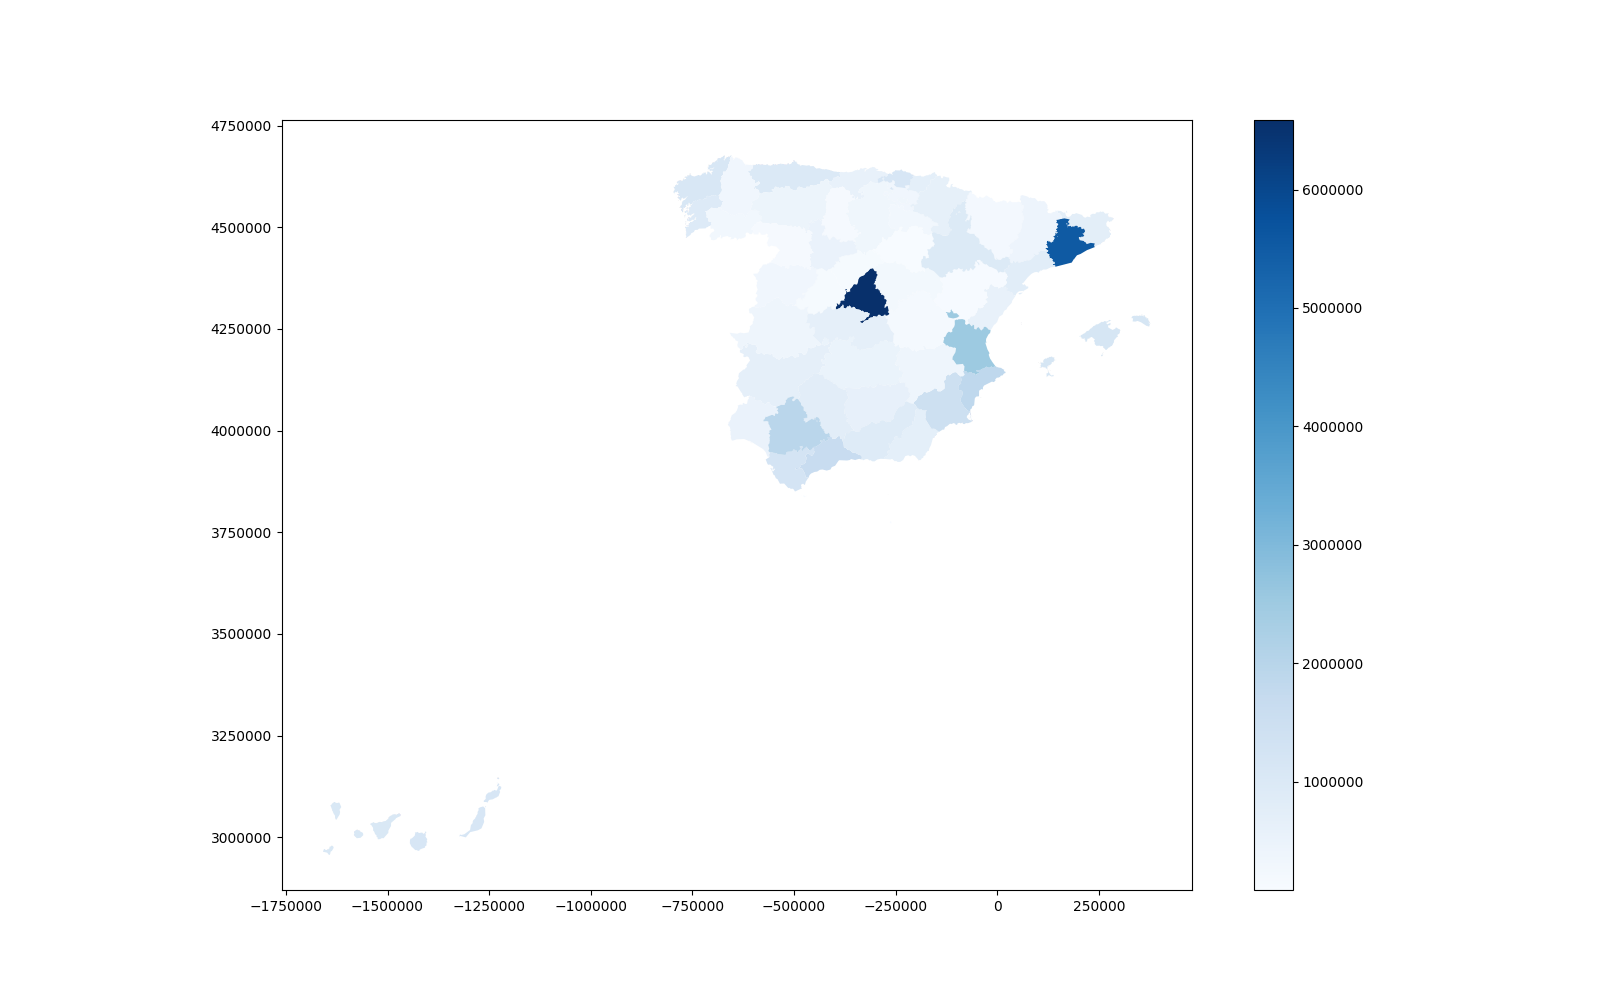
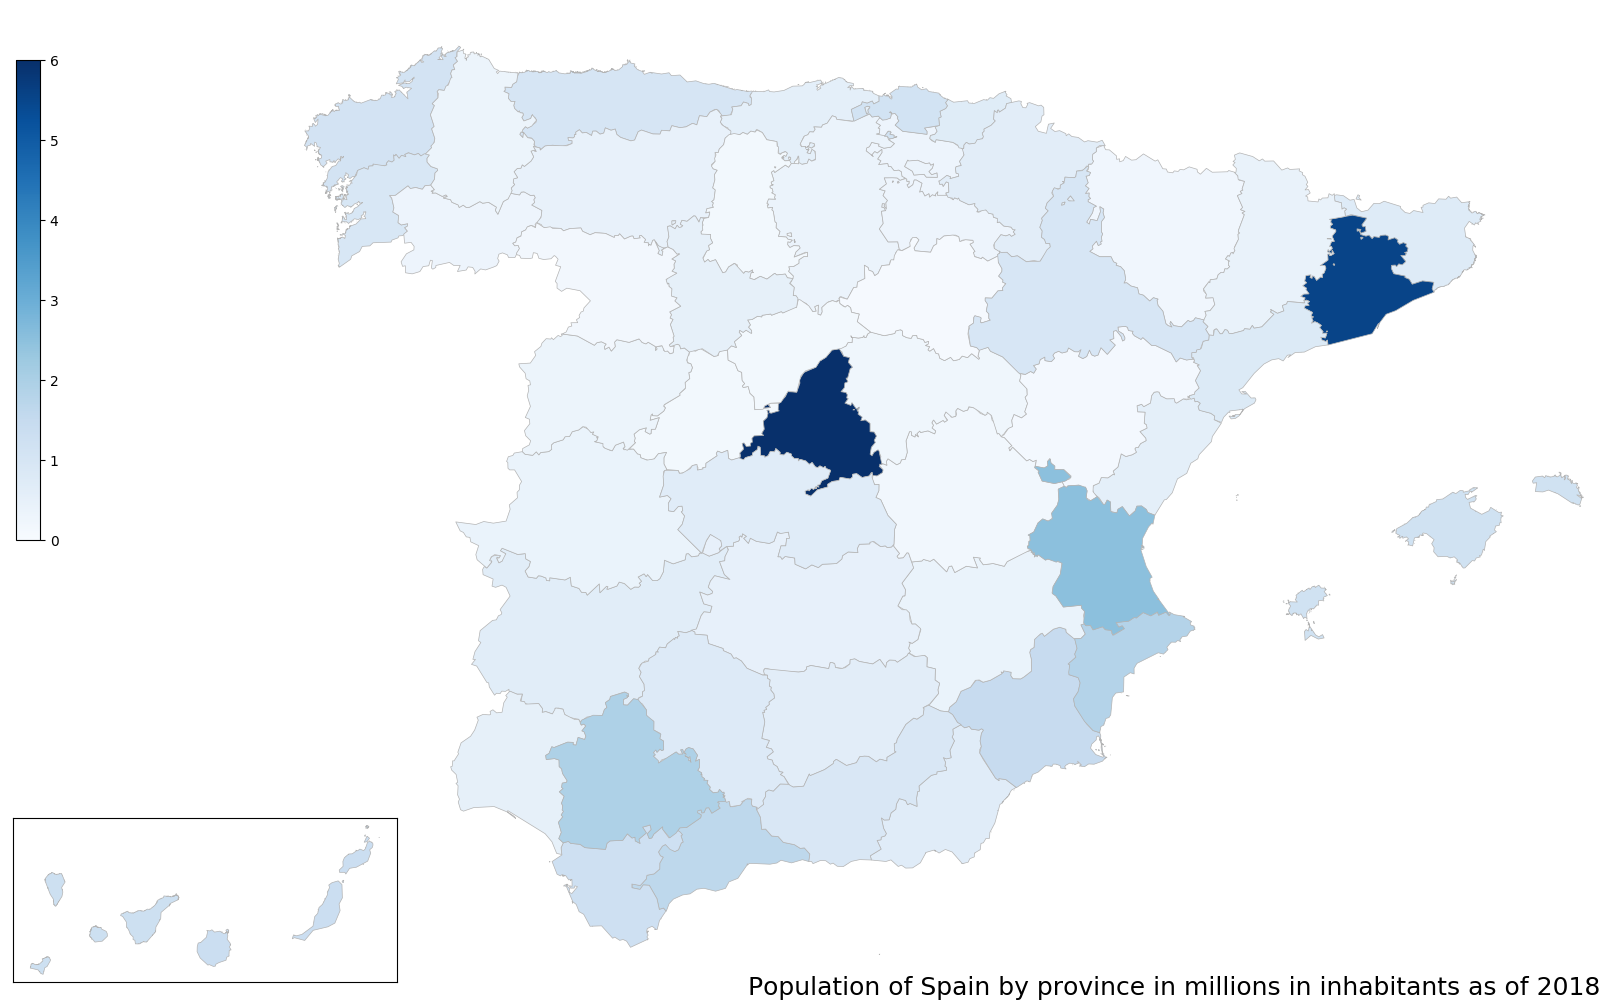
Generate Pelican site

diff --git a/author/datadato.html b/author/datadato.html
@@ -43,18 +43,10 @@
 
 <article>
   <div class="article_title">
-    <h1><a href="https://www.datadato.com/first-post.html">First Post</a></h1>
+    <h1><a href="https://www.datadato.com/population-of-spain-2018.html">Population of Spain, 2018</a></h1>
   </div>
   <div class="article_text">
-    <!-- Modified: 2019-02-27 20:23 -->
-
-<p>Hiya.</p>
-<p>Lorem ipsum dolor sit amet, consectetur adipiscing elit, sed do eiusmod tempor incididunt ut labore et dolore magna aliqua. Tristique et egestas quis ipsum suspendisse. Massa sed elementum tempus egestas sed. Suspendisse potenti nullam ac tortor. Et ligula ullamcorper malesuada proin libero. Enim lobortis scelerisque fermentum dui faucibus in ornare quam viverra. Vulputate odio ut enim blandit. Accumsan lacus vel facilisis volutpat. Et leo duis ut diam. Facilisi nullam vehicula ipsum a. Sit amet justo donec enim diam vulputate ut pharetra. Integer quis auctor elit sed vulputate mi sit. Tincidunt eget nullam non nisi. Nunc pulvinar sapien et ligula ullamcorper malesuada proin libero. Quisque sagittis purus sit amet volutpat consequat mauris nunc congue.</p>
-<p><a href="https://www.datadato.com/test.png"><img alt="Alt Text" src="https://www.datadato.com/test.png"></a></p>
-<p>Orci phasellus egestas tellus rutrum tellus. Turpis massa tincidunt dui ut ornare. Augue eget arcu dictum varius duis at consectetur. Elementum curabitur vitae nunc sed velit dignissim sodales. Cursus sit amet dictum sit. Scelerisque purus semper eget duis at tellus. Vitae tortor condimentum lacinia quis vel eros donec ac odio. Et netus et malesuada fames ac turpis egestas sed tempus. Sodales neque sodales ut etiam sit amet nisl purus. Iaculis at erat pellentesque adipiscing commodo elit at. Sed felis eget velit aliquet sagittis. Non enim praesent elementum facilisis. Massa massa ultricies mi quis hendrerit. Ultrices mi tempus imperdiet nulla. Tincidunt nunc pulvinar sapien et ligula ullamcorper malesuada proin libero. Nunc pulvinar sapien et ligula ullamcorper malesuada proin. Vel pretium lectus quam id leo in vitae turpis. Sit amet luctus venenatis lectus magna fringilla urna.</p>
-<p>Feugiat in fermentum posuere urna nec tincidunt praesent semper. Quisque id diam vel quam elementum pulvinar etiam. Sagittis aliquam malesuada bibendum arcu vitae elementum curabitur vitae nunc. Et magnis dis parturient montes nascetur ridiculus mus mauris vitae. Turpis egestas integer eget aliquet nibh praesent. Magna ac placerat vestibulum lectus mauris ultrices. Mauris pellentesque pulvinar pellentesque habitant. Urna condimentum mattis pellentesque id nibh tortor id aliquet lectus. Aliquam etiam erat velit scelerisque in. Senectus et netus et malesuada fames ac turpis egestas. Eleifend quam adipiscing vitae proin. Faucibus pulvinar elementum integer enim neque. Tellus molestie nunc non blandit massa enim. Cras tincidunt lobortis feugiat vivamus at augue eget arcu dictum. Odio ut enim blandit volutpat. Dictumst quisque sagittis purus sit amet volutpat consequat mauris nunc.</p>
-<p>Sit amet est placerat in egestas erat. Vitae et leo duis ut diam quam nulla porttitor massa. Morbi tincidunt ornare massa eget egestas purus viverra accumsan in. Nec dui nunc mattis enim. Volutpat blandit aliquam etiam erat velit scelerisque in. Cursus risus at ultrices mi tempus imperdiet nulla malesuada pellentesque. Vulputate enim nulla aliquet porttitor lacus. Maecenas volutpat blandit aliquam etiam. Dapibus ultrices in iaculis nunc. Iaculis at erat pellentesque adipiscing commodo elit at imperdiet. Mauris augue neque gravida in fermentum et sollicitudin ac. Urna id volutpat lacus laoreet non.</p>
-<p>Eget sit amet tellus cras. Amet risus nullam eget felis eget nunc. Tellus at urna condimentum mattis pellentesque id nibh tortor id. Feugiat vivamus at augue eget arcu. Id leo in vitae turpis massa sed. Quis eleifend quam adipiscing vitae proin sagittis nisl rhoncus mattis. Morbi blandit cursus risus at ultrices mi. Elit scelerisque mauris pellentesque pulvinar. In eu mi bibendum neque. Elit sed vulputate mi sit amet. Eu turpis egestas pretium aenean pharetra magna ac. Ipsum consequat nisl vel pretium lectus. Massa id neque aliquam vestibulum. Ultrices tincidunt arcu non sodales. Sem integer vitae justo eget magna fermentum iaculis. Donec massa sapien faucibus et molestie ac feugiat sed lectus. Habitasse platea dictumst vestibulum rhoncus est pellentesque elit. Ac turpis egestas sed tempus urna et pharetra. Tincidunt id aliquet risus feugiat in.</p>
+    <p><a href="https://www.datadato.com/test.png"><img alt="Alt Text" src="https://www.datadato.com/test.png"></a></p>
   </div>
 </article>
 

diff --git a/population-of-spain-2018.html b/population-of-spain-2018.html
@@ -16,10 +16,11 @@
   <meta name="description" content="Posts and writings by datadato">
 
 
+<meta name="keywords" content="map, Spain, choropleth">
 
   <title>
     datadato
-  </title>
+&ndash; Population of Spain, 2018  </title>
 
 </head>
 
@@ -47,10 +48,16 @@
   <div class="article_text">
     <p><a href="https://www.datadato.com/test.png"><img alt="Alt Text" src="https://www.datadato.com/test.png"></a></p>
   </div>
+  <div class="article_meta">
+    <p>Posted on: Tue 26 February 2019</p>
+    <p>Category: <a href="https://www.datadato.com/category/maps.html">Maps</a>
+ &ndash; Tags:
+      <a href="https://www.datadato.com/tag/map.html">map</a>,      <a href="https://www.datadato.com/tag/spain.html">Spain</a>,      <a href="https://www.datadato.com/tag/choropleth.html">choropleth</a>    </p>
+  </div>
+
+
 </article>
 
-<footer>
-</footer>
 
     <div id="ending_message">
       <p>&copy; 2019 datadato.com

diff --git a/tags.html b/tags.html
@@ -42,8 +42,9 @@
 
 <article>
   <div class="article_text">
-    <ul>          <li><a href="https://www.datadato.com/tag/misc.html">misc</a> (1)</li>
-          <li><a href="https://www.datadato.com/tag/personal.html">personal</a> (1)</li>
+    <ul>          <li><a href="https://www.datadato.com/tag/choropleth.html">choropleth</a> (1)</li>
+          <li><a href="https://www.datadato.com/tag/map.html">map</a> (1)</li>
+          <li><a href="https://www.datadato.com/tag/spain.html">Spain</a> (1)</li>
     </ul>
   </div>
 </article>

diff --git a/tag/choropleth.html b/tag/choropleth.html
@@ -19,7 +19,7 @@
 
   <title>
     datadato
-  </title>
+&ndash; Tag: choropleth  </title>
 
 </head>
 
@@ -37,6 +37,7 @@
     <header>
       <p>
       <a href="https://www.datadato.com">Index</a> &brvbar; <a href="https://www.datadato.com/archives.html">Archives</a>
+&gt; Tag: choropleth
       </p>
     </header>
 

diff --git a/archives.html b/archives.html
@@ -44,7 +44,7 @@
   <div class="article_text">
     <dl>
       <dt>Tue 26 February 2019</dt>
-      <dd><a href="https://www.datadato.com/first-post.html">First Post</a></dd>
+      <dd><a href="https://www.datadato.com/population-of-spain-2018.html">Population of Spain, 2018</a></dd>
     </dl>
   </div>
 </article>

diff --git a/category/maps.html b/category/maps.html
@@ -19,7 +19,7 @@
 
   <title>
     datadato
-  </title>
+&ndash; Category: Maps  </title>
 
 </head>
 
@@ -37,6 +37,7 @@
     <header>
       <p>
       <a href="https://www.datadato.com">Index</a> &brvbar; <a href="https://www.datadato.com/archives.html">Archives</a>
+&gt; Category: Maps
       </p>
     </header>
 

diff --git a/tag/spain.html b/tag/spain.html
@@ -19,7 +19,7 @@
 
   <title>
     datadato
-  </title>
+&ndash; Tag: Spain  </title>
 
 </head>
 
@@ -37,6 +37,7 @@
     <header>
       <p>
       <a href="https://www.datadato.com">Index</a> &brvbar; <a href="https://www.datadato.com/archives.html">Archives</a>
+&gt; Tag: Spain
       </p>
     </header>
 

diff --git a/tag/map.html b/tag/map.html
@@ -19,7 +19,7 @@
 
   <title>
     datadato
-  </title>
+&ndash; Tag: map  </title>
 
 </head>
 
@@ -37,6 +37,7 @@
     <header>
       <p>
       <a href="https://www.datadato.com">Index</a> &brvbar; <a href="https://www.datadato.com/archives.html">Archives</a>
+&gt; Tag: map
       </p>
     </header>
 

diff --git a/categories.html b/categories.html
@@ -43,7 +43,7 @@
 <article>
   <div class="article_text">
     <ul>
-      <li><a href="https://www.datadato.com/category/misc.html">misc</a> (1)</li>
+      <li><a href="https://www.datadato.com/category/maps.html">Maps</a> (1)</li>
     </ul>
   </div>
 </article>
